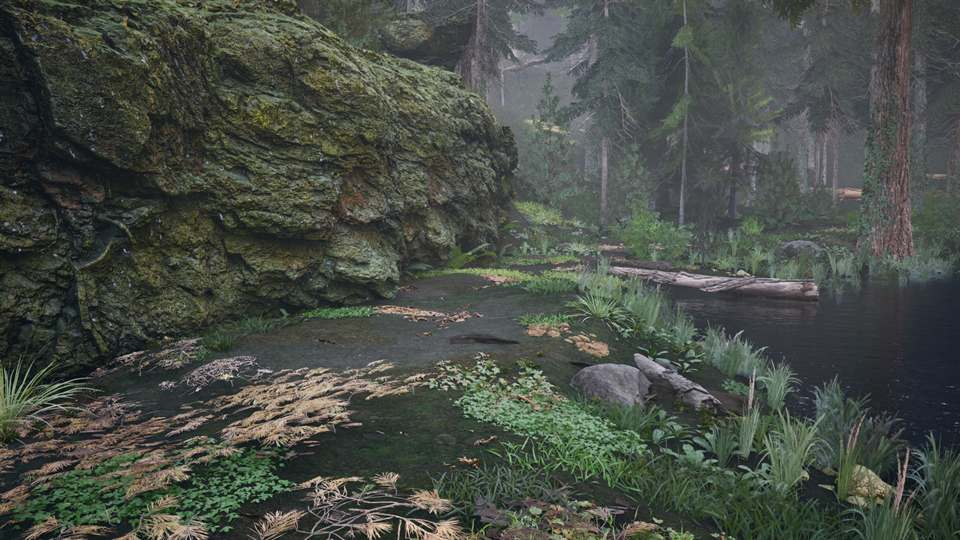
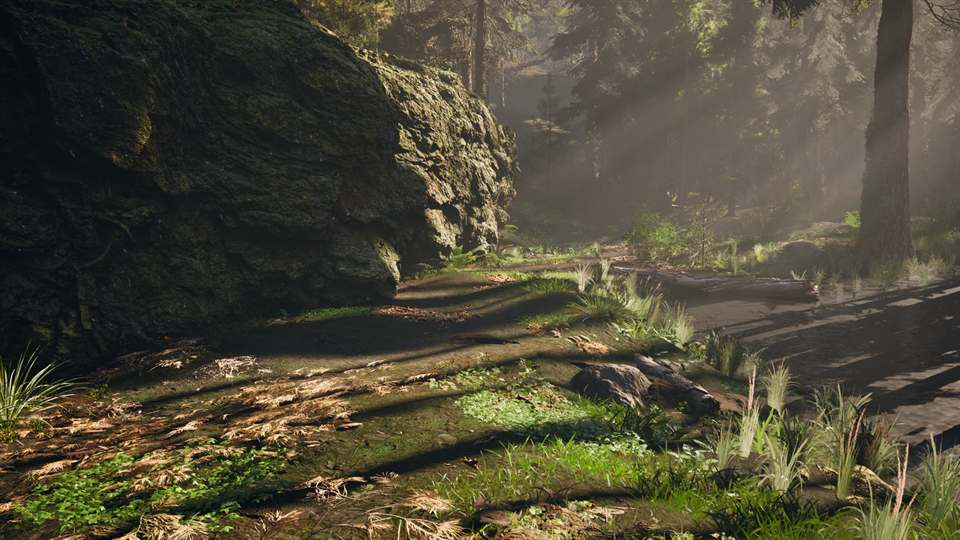
Update ChatGPT connector mirror - 2026-11-18_102752_814812_8c909a

diff --git a/chatgpt-bridge/latest/README_FOR_CHATGPT.md b/chatgpt-bridge/latest/README_FOR_CHATGPT.md
@@ -3,9 +3,9 @@
 Read bridge_status.json first, then scene_summary.json, then Screenshots/.
 For environment review read foliage_summary, landscape_summary, water_summary and lighting_summary. For specific objects read actors_index and asset_usage. camera_plan describes capture poses; verification records preservation checks.
 
-Run: 2026-11-12_014306_003882_09e892
+Run: 2026-11-18_102752_814812_8c909a
 Map: /Game/GraceRanger/Maps/L_GR_SphirusHouse.L_GR_SphirusHouse
-Engine: 5.8.4-58902052+++UE5+Release-5.8
+Engine: 5.9.0-60351404+++UE5+Release-5.9
 
 Loaded world only. Null metadata is unknown. Grid estimates are not exact per-cell counts.
 
